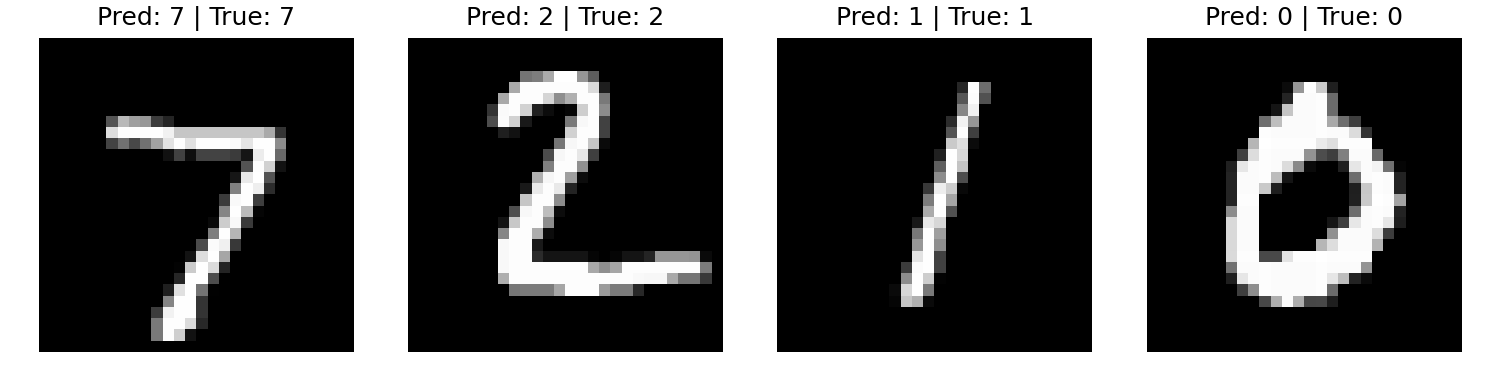
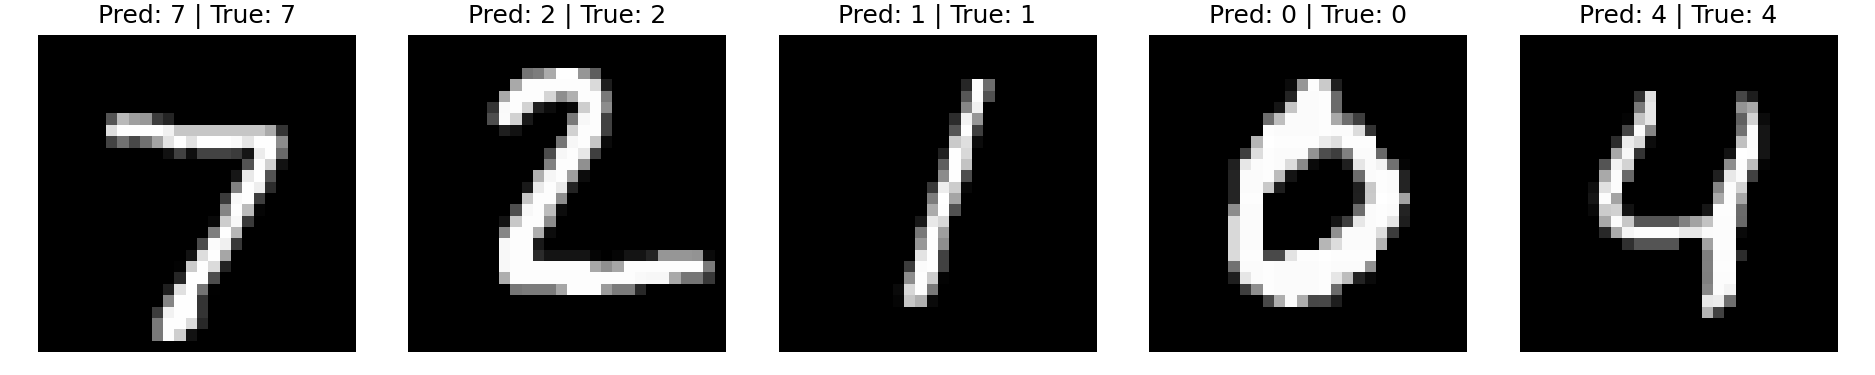
argparse update

diff --git a/trainer.py b/trainer.py
@@ -7,17 +7,21 @@ from sklearn.metrics import accuracy_score
 import matplotlib.pyplot as plt
 
 from tqdm import tqdm
+from pathlib import Path
+
+
 
 class Trainer(nn.Module):
     def __init__(self, args) -> None:
         super().__init__()
         self.args = args
+        self.ckpt_dir = args.save_ckpt_dir
         self.model = ViT(args)
         self.optimizer = torch.optim.AdamW(self.model.parameters(),
                                            lr=args.lr,
                                            weight_decay=args.weight_decay)
         self.loss_fn = nn.CrossEntropyLoss()
-
+        self.epoch = 0
     
     def train(self, loader):
         self.model.to(self.args.device)
@@ -28,7 +32,7 @@ class Trainer(nn.Module):
             epoch_loss = 0
             epoch_acc = 0
 
-            for images, labels in tqdm(loader, desc=f"Epoch: {epoch + 1}", leave=False):
+            for images, labels in tqdm(loader, desc=f"Training epoch {epoch + 1}", leave=False):
                 images, labels = images.to(self.args.device), labels.to(self.args.device)
 
                 logits = self.model(images) # (B, C)
@@ -39,12 +43,14 @@ class Trainer(nn.Module):
                 probs = F.softmax(logits, dim=-1)
                 preds = probs.argmax(dim=-1) # (B)
 
-                acc = accuracy_score(labels, preds, normalize=True)
+                acc = accuracy_score(labels.cpu(), preds.cpu(), normalize=True)
                 epoch_acc += acc
 
                 self.optimizer.zero_grad()
                 loss.backward()
                 self.optimizer.step()
+            
+            self.epoch = epoch
             
             epoch_loss /= len(loader)
             epoch_acc /= len(loader)
@@ -110,3 +116,17 @@ class Trainer(nn.Module):
         plt.close(fig)
 
         print(f"Saved visualization to {save_path}")
+
+    def save_checkpoint(self):
+        save_dir = Path(self.ckpt_dir)
+        save_dir.mkdir(parents=True, exist_ok=True)
+
+        save_path = f"{save_dir}/{self.model.model_name}_{self.epoch}.pth"
+
+        torch.save({
+            "epoch": self.epoch,
+            "model_state_dict": self.model.state_dict(),
+            "optimizer_state_dict": self.optimizer.state_dict(),
+            "total_epoch": self.args.epochs
+        }, save_path
+        )

diff --git a/run.py b/run.py
@@ -24,6 +24,7 @@ def get_args():
     parser.add_argument("--num_head", type=int, default=8)
     parser.add_argument("--mlp_scale", type=int, default=4)
     parser.add_argument("--activation", type=nn.Module, default=nn.GELU)
+    parser.add_argument("--save_ckpt_dir", type=str, default="./output/checkpoints")
 
     # optimizer
     parser.add_argument("--lr", type=int, default=1e-3)
@@ -33,8 +34,8 @@ def get_args():
     parser.add_argument("--epochs", type=int, default=2)
     parser.add_argument("--device", type=str, default='mps')
     parser.add_argument("--seed", type=int, default=42)
-    parser.add_argument("--visualize", action="store_true")
-    parser.add_argument("--visualize_num_images", type=int, default=4)
+    parser.add_argument("--visualize", type=bool, default=True)
+    parser.add_argument("--visualize_num_images", type=int, default=5)
     parser.add_argument("--visualize_path", type=str, default="./output/visualization.png")
 
     return parser.parse_args()
@@ -52,6 +53,8 @@ def main():
 
     if args.visualize:
         trainer.visualize(val_loader, num_images=args.visualize_num_images, save_path=args.visualize_path)
+
+    trainer.save_checkpoint()
 
 if __name__ == '__main__':
     main()

diff --git a/modeling/vit.py b/modeling/vit.py
@@ -16,7 +16,7 @@ class ViT(nn.Module):
             (B, 10) for MNIST dataset
     '''
     def __init__(self, args):
-        
+
         super().__init__()
         self.embed_dim = args.embed_channel
         self.num_token = (args.image_size//args.patch_size) ** 2
@@ -29,6 +29,7 @@ class ViT(nn.Module):
             for _ in range(args.depth)
         ])
         self.mlp_head = nn.Linear(args.embed_channel, args.num_class)
+        self.model_name = f"ViT_patch{args.patch_size}_dim{args.embed_channel}_depth{args.depth}"
     
     def forward(self, image: Tensor):
         '''